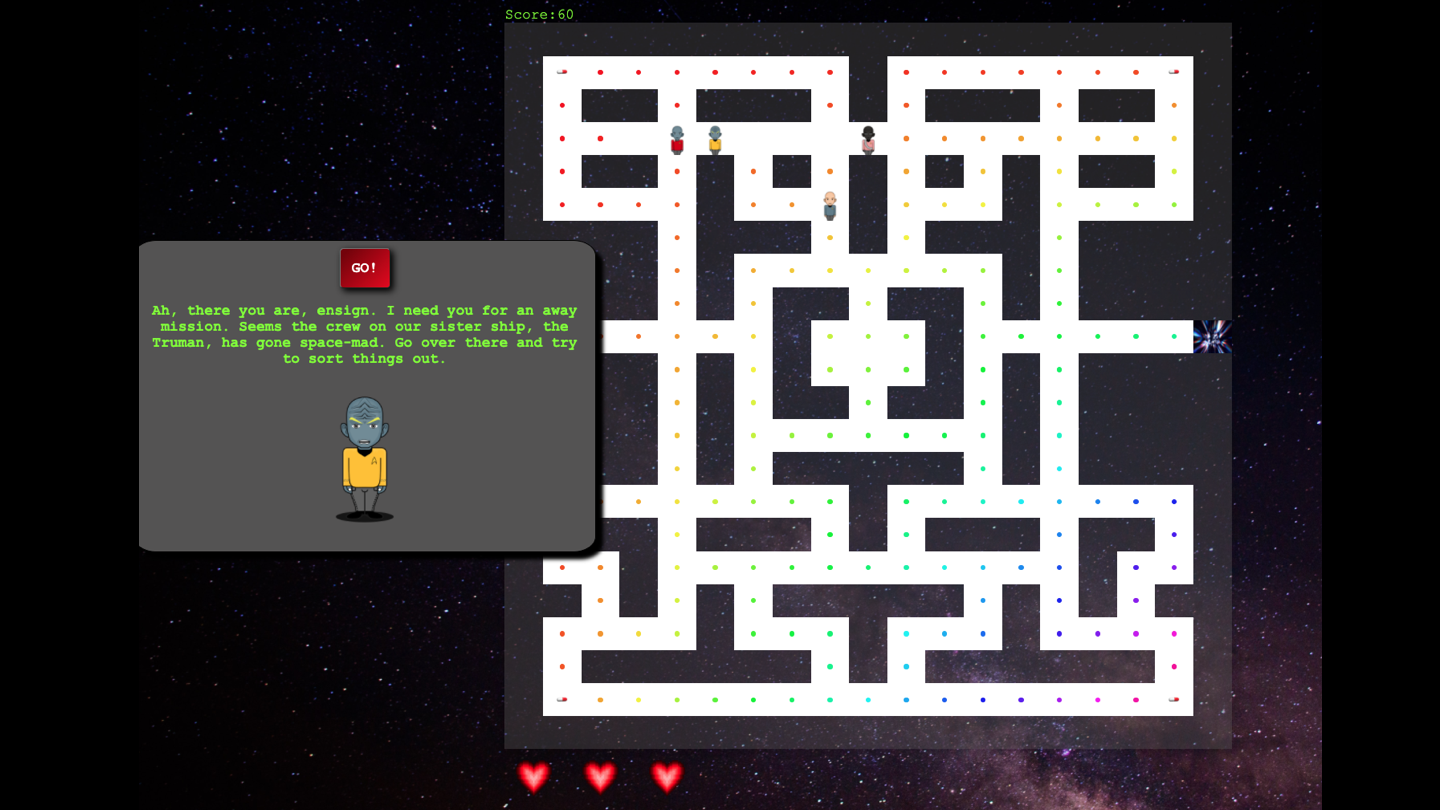
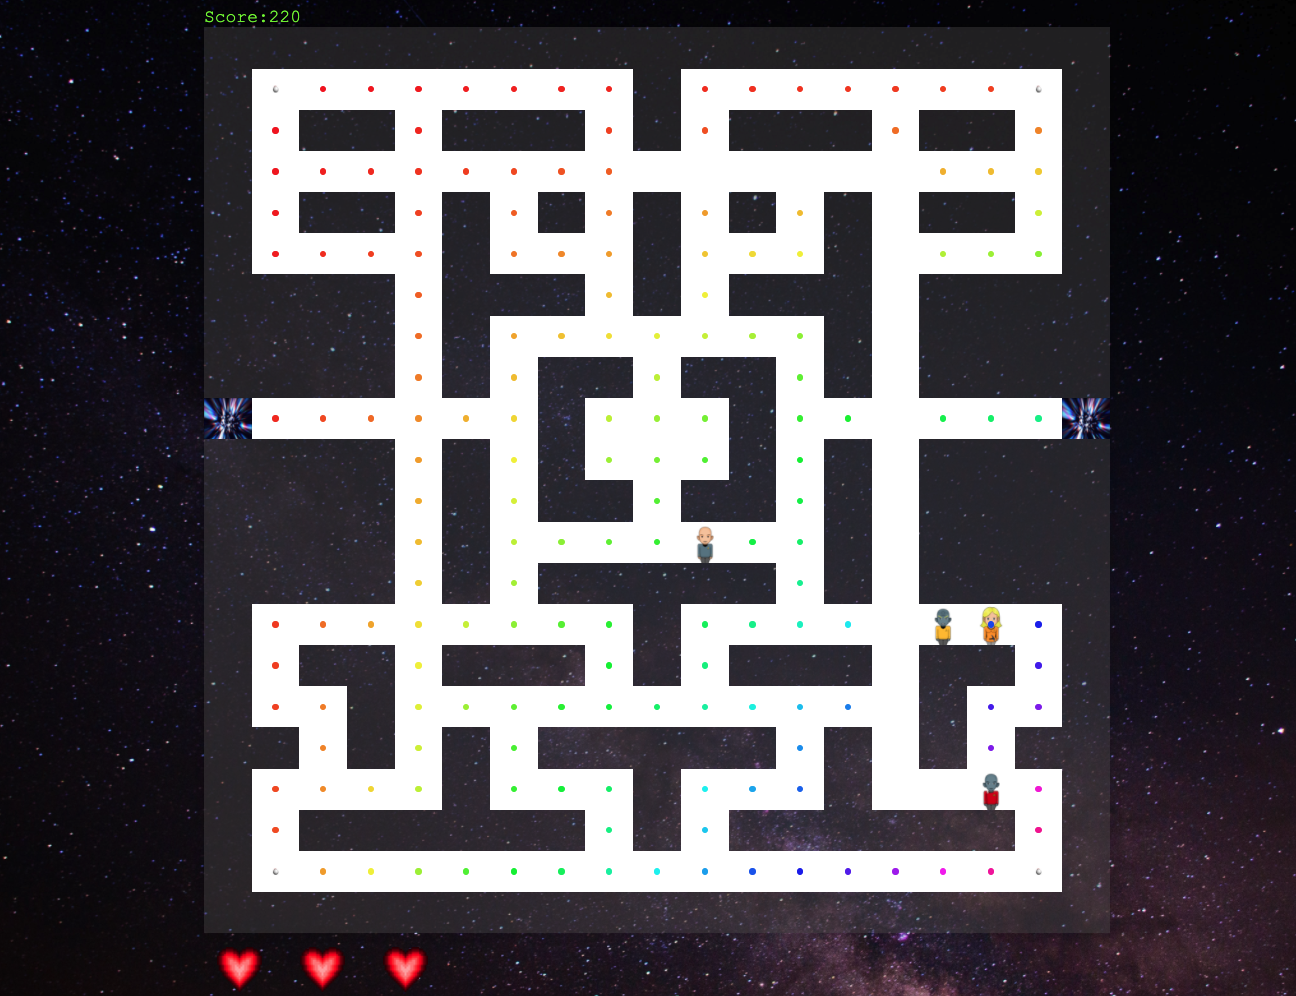
Update Projects with images and text

diff --git a/portfolio/src/components/infos/Projects.js b/portfolio/src/components/infos/Projects.js
@@ -1,10 +1,6 @@
 /* eslint-disable react/no-unescaped-entities */
 import React from 'react'
 
-// import redshirtsRun from '../../styles/screenshots/Redshirts_run_screenshot.png'
-// import newsFeed from '../../styles/screenshots/News_Feed_V2Global.png'
-// import ProjectCard from './ProjectCard'
-
 const Projects = () => {
   return (
     <>
@@ -13,56 +9,47 @@ const Projects = () => {
         <div className="project-img1-glitch"></div>
         <div className="project-img1-glitch"></div>
         <div className="project-img1-glitch"></div>
-        <div className="project-title">
-          <span className="border" style={{ display: 'inline-block', color: 'black' }}>JavaScript, HTML5, CSS3</span>
-        </div>
       </div>
 
       <section className="project-blurb section-light">
-        <h3>Redshirt's Run</h3>
-        <p>A grid-based game, inspired by Pacman and Star Trek, built with vanilla JavaScript, HTML5 and CSS3.</p>
-        <p>Built solo in a week, three weeks into my Software Engineering Immersive at General Assembly</p>
-        <p>Play the live version <a href="https://simon994.github.io/sei-project-1/">here</a></p>
-        <p>See the GitHub repo <a href="https://github.com/Simon994/sei-project-1">here</a></p>
+        <h3>499px (RAWshot)</h3>
+        <p>A full-stack app, with multiple relationships and CRUD functionality, cloning key parts of the photo-sharing website 500px</p>
+        <p>Technologies include: Django, Django REST framework, React, PostgreSQL, SASS, Axios and Semantic UI React</p>
+        <p>Built solo in 8 days</p>
+        <p><a href="https://rawshot-499px.herokuapp.com/">Live version</a>  |  <a href="https://github.com/Simon994/RAWShot">GitHub repo</a> </p>
+        <p></p>
       </section>
 
-
-      <div className="project-img2-container">
-        <div className="project-title">
-          <span className="border" style={{ display: 'inline-block', color: 'black' }}>React.js, consuming 3rd party API data</span>
-        </div>
-      </div>
-
-      <section className="project-blurb section-dark">
-        <h3>News Feed</h3>
-        <p>A grid-based game, inspired by Pacman and Star Trek, built with vanilla JavaScript, HTML5 and CSS3.</p>
-        <p>Built solo in a week, three weeks into my Software Engineering Immersive at General Assembly</p>
-        <p>Play the live version <a href="https://simon994.github.io/sei-project-1/">here</a></p>
-        <p>See the GitHub repo <a href="https://github.com/Simon994/sei-project-1">here</a></p>
-      </section>
-
-
-      <div className="project-img3-container">
-        <div className="project-title">
-          <span className="border" style={{ display: 'inline-block', color: 'black' }}>Full-stack MERN</span>
-        </div>
-      </div>
+      <div className="project-img2-container"></div>
 
       <section className="project-blurb section-dark">
         <h3>Discover Montréal</h3>
-        <p>A grid-based game, inspired by Pacman and Star Trek, built with vanilla JavaScript, HTML5 and CSS3.</p>
-        <p>Built solo in a week, three weeks into my Software Engineering Immersive at General Assembly</p>
-        <p>Play the live version <a href="https://simon994.github.io/sei-project-1/">here</a></p>
-        <p>See the GitHub repo <a href="https://github.com/Simon994/sei-project-1">here</a></p>
+        <p>Full-stack MERN app with multiple relationships and CRUD functionality</p>
+        <p>Users can share, rate and comment on attractions around Montréal</p>
+        <p>Built in 9 days as part of a 4-person team. My focus was split ca.80:20 between frontend and backend, respectively</p>
+        <p><a href="https://discover-montreal.herokuapp.com/">Live version</a>  |  <a href="https://github.com/Simon994/sei-project-3">GitHub repo</a> </p>
+      </section>
+
+      <div className="project-img3-container"></div>
+
+      <section className="project-blurb section-dark">
+        <h3>News Feed <span style={{ fontWeight: '400' }}>and</span> News Feed v2Global</h3>
+        <p>A React app that consumes 3rd party API data from News API</p>
+        <p>My focus included building the top-stories section and other components, styling, bug-fixing, and contributing to overall project planning</p>
+        <p>Built in 3 days, as part of a two-person collaborative project</p>
+        <p><a href="https://the-news-feed-v2-global.netlify.app/">Live version (v2Global)</a>  |  <a href="https://github.com/Simon994/news-feed-v2Global">GitHub repo (v2Global)</a>  |  <a href="https://github.com/Simon994/news-feed">GitHub repo (News Feed)</a>
+        </p>
       </section>
 
 
-      <div className="project-img1">
-        <div className="project-title">
-          <span className="border" style={{ display: 'inline-block', color: 'black' }}>JavaScript, HTML5, CSS3</span>
-        </div>
-      </div>
+      <div className="project-img4-container"></div>
 
+      <section className="project-blurb section-light">
+        <h3>Redshirt's Run</h3>
+        <p>A grid-based game, inspired by Pacman and Star Trek, built with vanilla JavaScript, HTML5 and CSS3</p>
+        <p>Built solo in a week, three weeks into my Software Engineering Immersive at General Assembly</p>
+        <p><a href="https://simon994.github.io/sei-project-1/">Live version</a>  |  <a href="https://github.com/Simon994/sei-project-1">GitHub repo</a> </p>
+      </section>
 
     </>
 

diff --git a/portfolio/src/styles/main.scss b/portfolio/src/styles/main.scss
@@ -266,17 +266,33 @@ $offsetLeft) {
 
 //Project section
 
+
+.project-blurb{
+  text-align: center;
+  padding: 30px;
+  text-shadow: 2px 2px rgb(61, 0, 99);
+  color: white;
+  line-height: 1.5;
+
+  a{
+    text-decoration: none;
+    color: hotpink;
+  }
+}
+
 //TO REMOVE AFTER ALL IMAGES CHANGED TO GLITCH
 //>>>>>>>>>>>>>>>>>>>>>>>>>>>>>>>>>>>>>>
 .project-img1-container,
 .project-img2-container,
-.project-img3-container{
+.project-img3-container,
+.project-img4-container{
   position: relative;
   opacity: 0.5;
 }
 
 .project-img2-container,
-.project-img3-container{
+.project-img3-container,
+.project-img4-container{
   background-position: center;
   background-size: cover;
   background-repeat: no-repeat;
@@ -289,13 +305,18 @@ $offsetLeft) {
 }
 
 .project-img2-container{
-  background-image: url('./screenshots/News_Feed_V2Global.png');
+  background-image: url('./screenshots/discover_montreal_home_screenshot.png');
   min-height: 300px;
 }
 
 .project-img3-container{
-  background-image: url('./screenshots/Discover_Montreal_screenshot.png');
+  background-image: url('./screenshots/news_feed_home_screenshot.png');
   min-height: 300px;
+}
+
+.project-img4-container{
+  background-image: url('./screenshots/redshirts_run_screenshot.png');
+  min-height: 500px;
 }
 
 .project-img1-glitch{
@@ -304,9 +325,10 @@ $offsetLeft) {
   left: 0;
   width: 100%;
   height: 100%;
-  background: url('./screenshots/Redshirts_run_screenshot.png') no-repeat 50% 0;
+  background: url('./screenshots/rawshot_photogrid_screenshot.png') no-repeat;
   background-color: $blend-color-1;
   background-size: cover;
+  background-position: top;
   transform: translate3d(0, 0, 0);
   background-blend-mode: $blend-mode-1;
   background-attachment: fixed;
